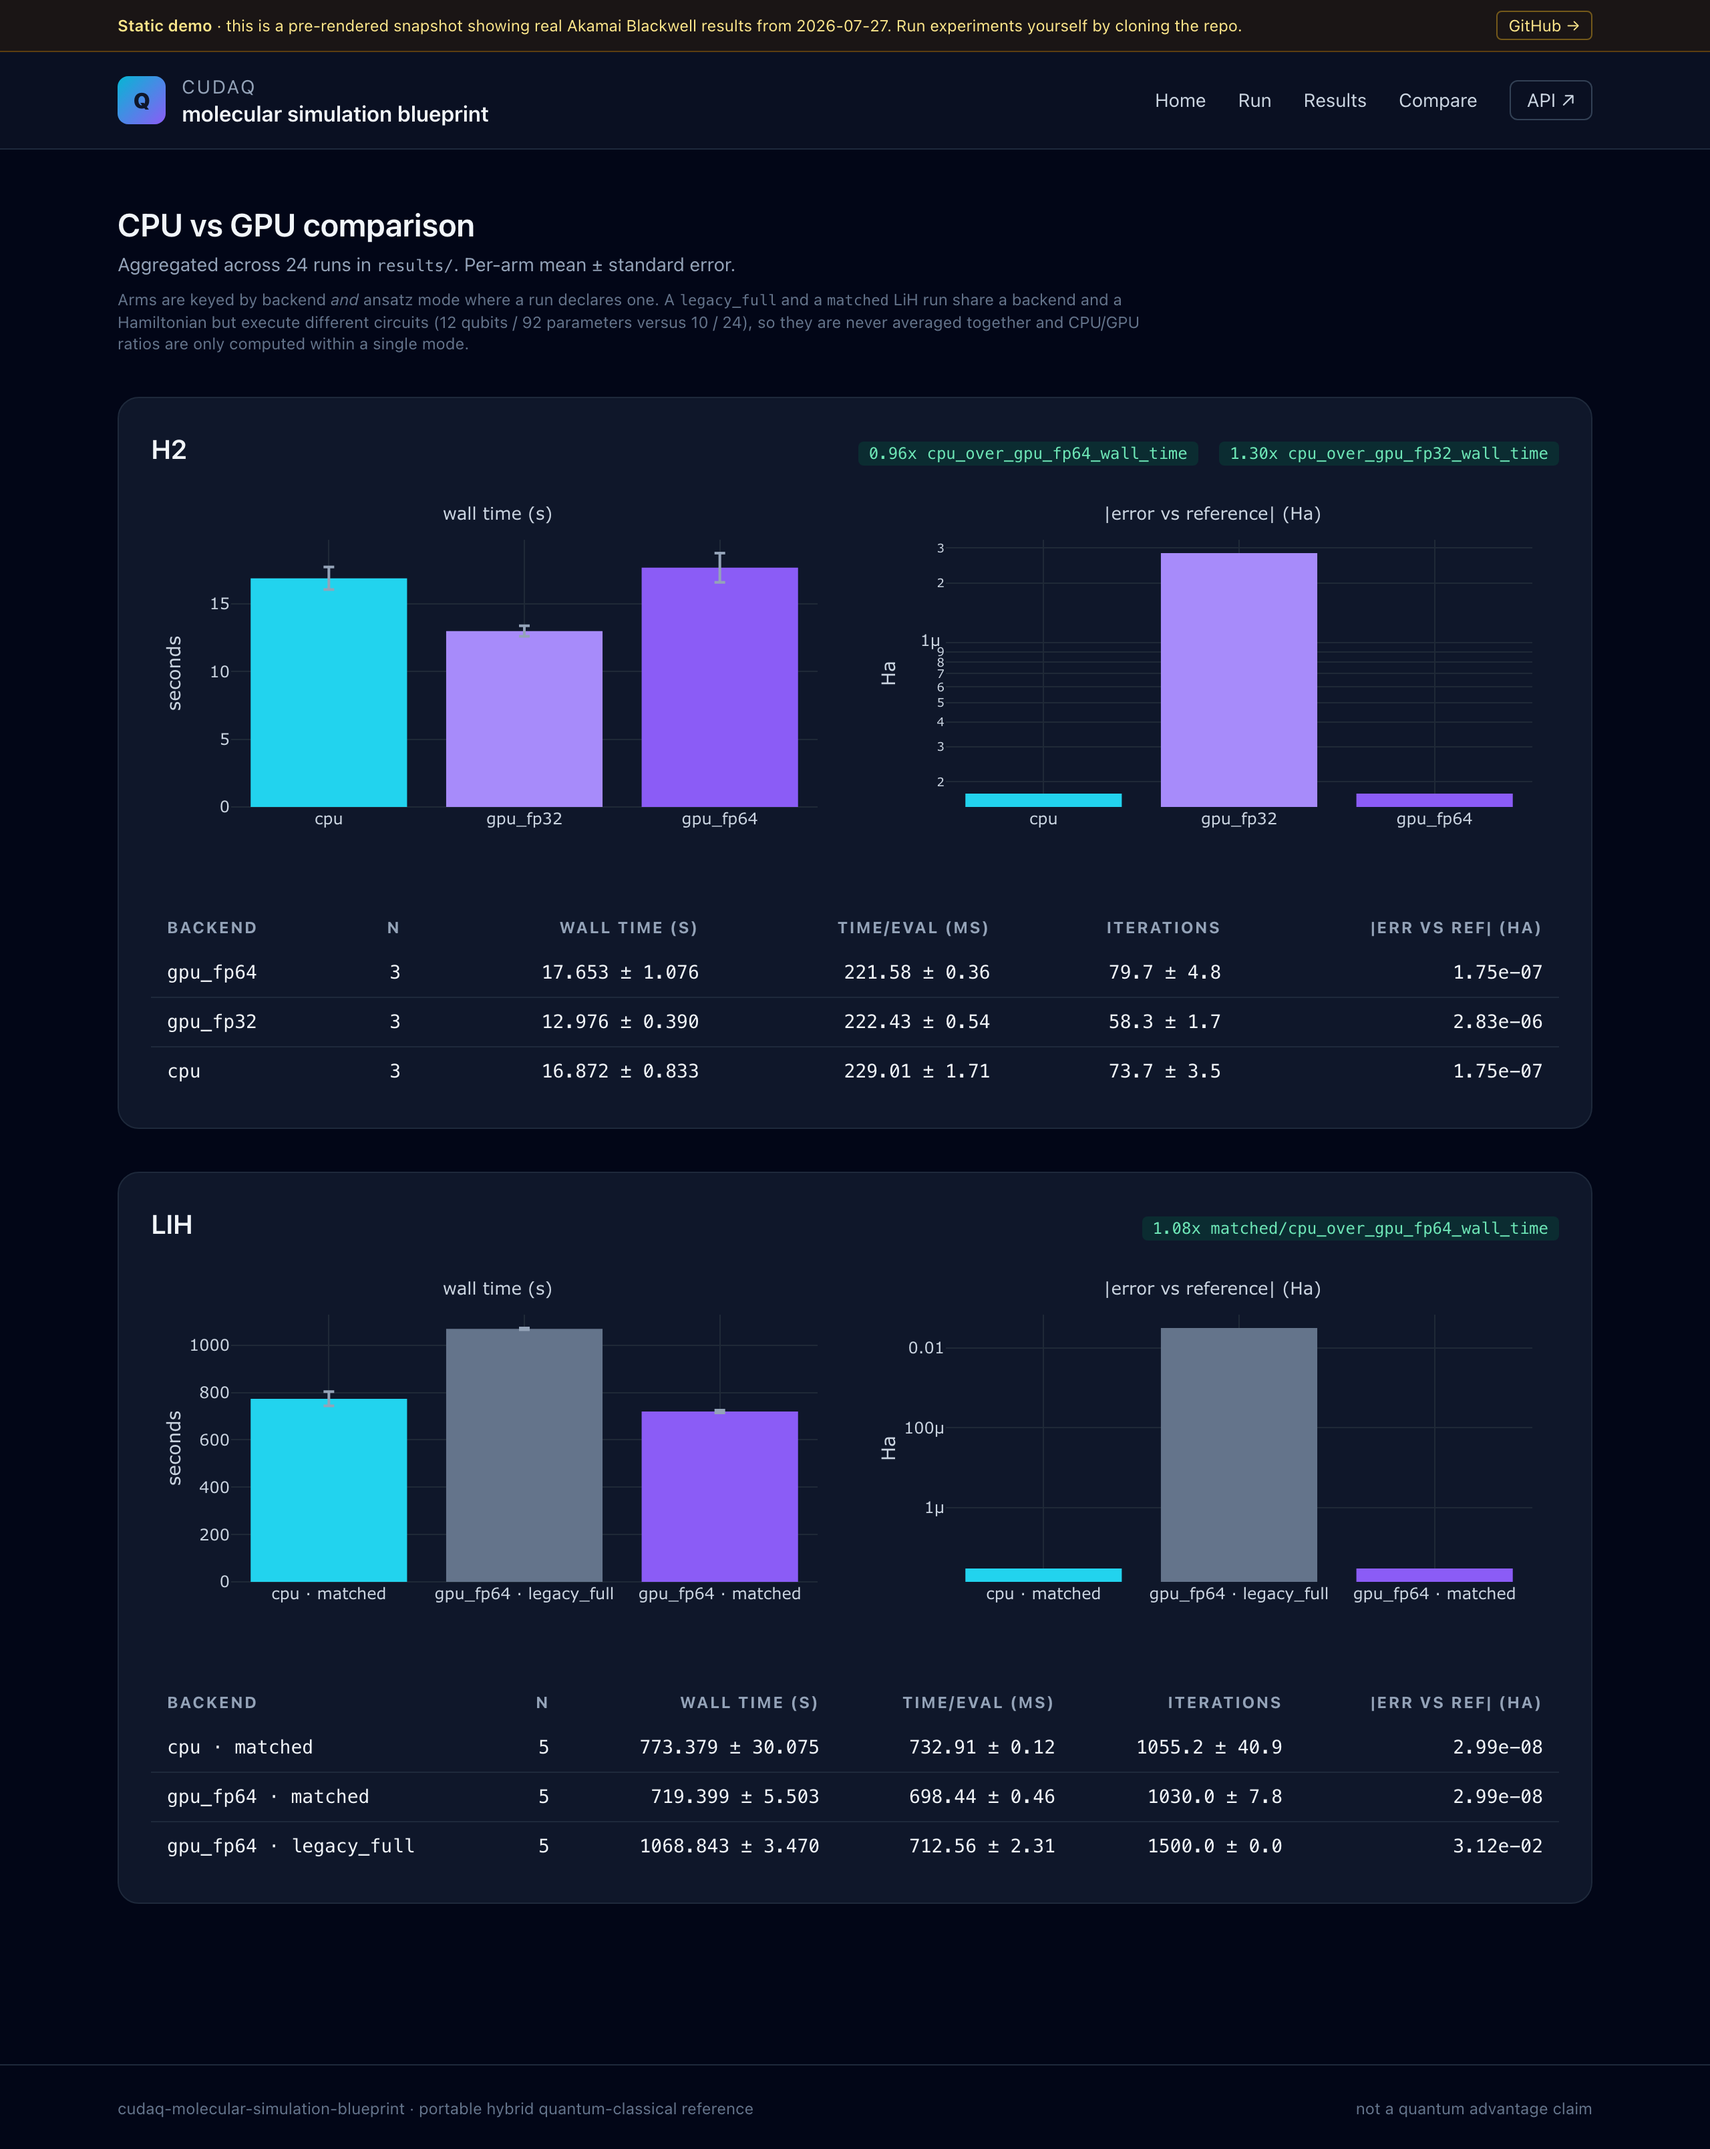
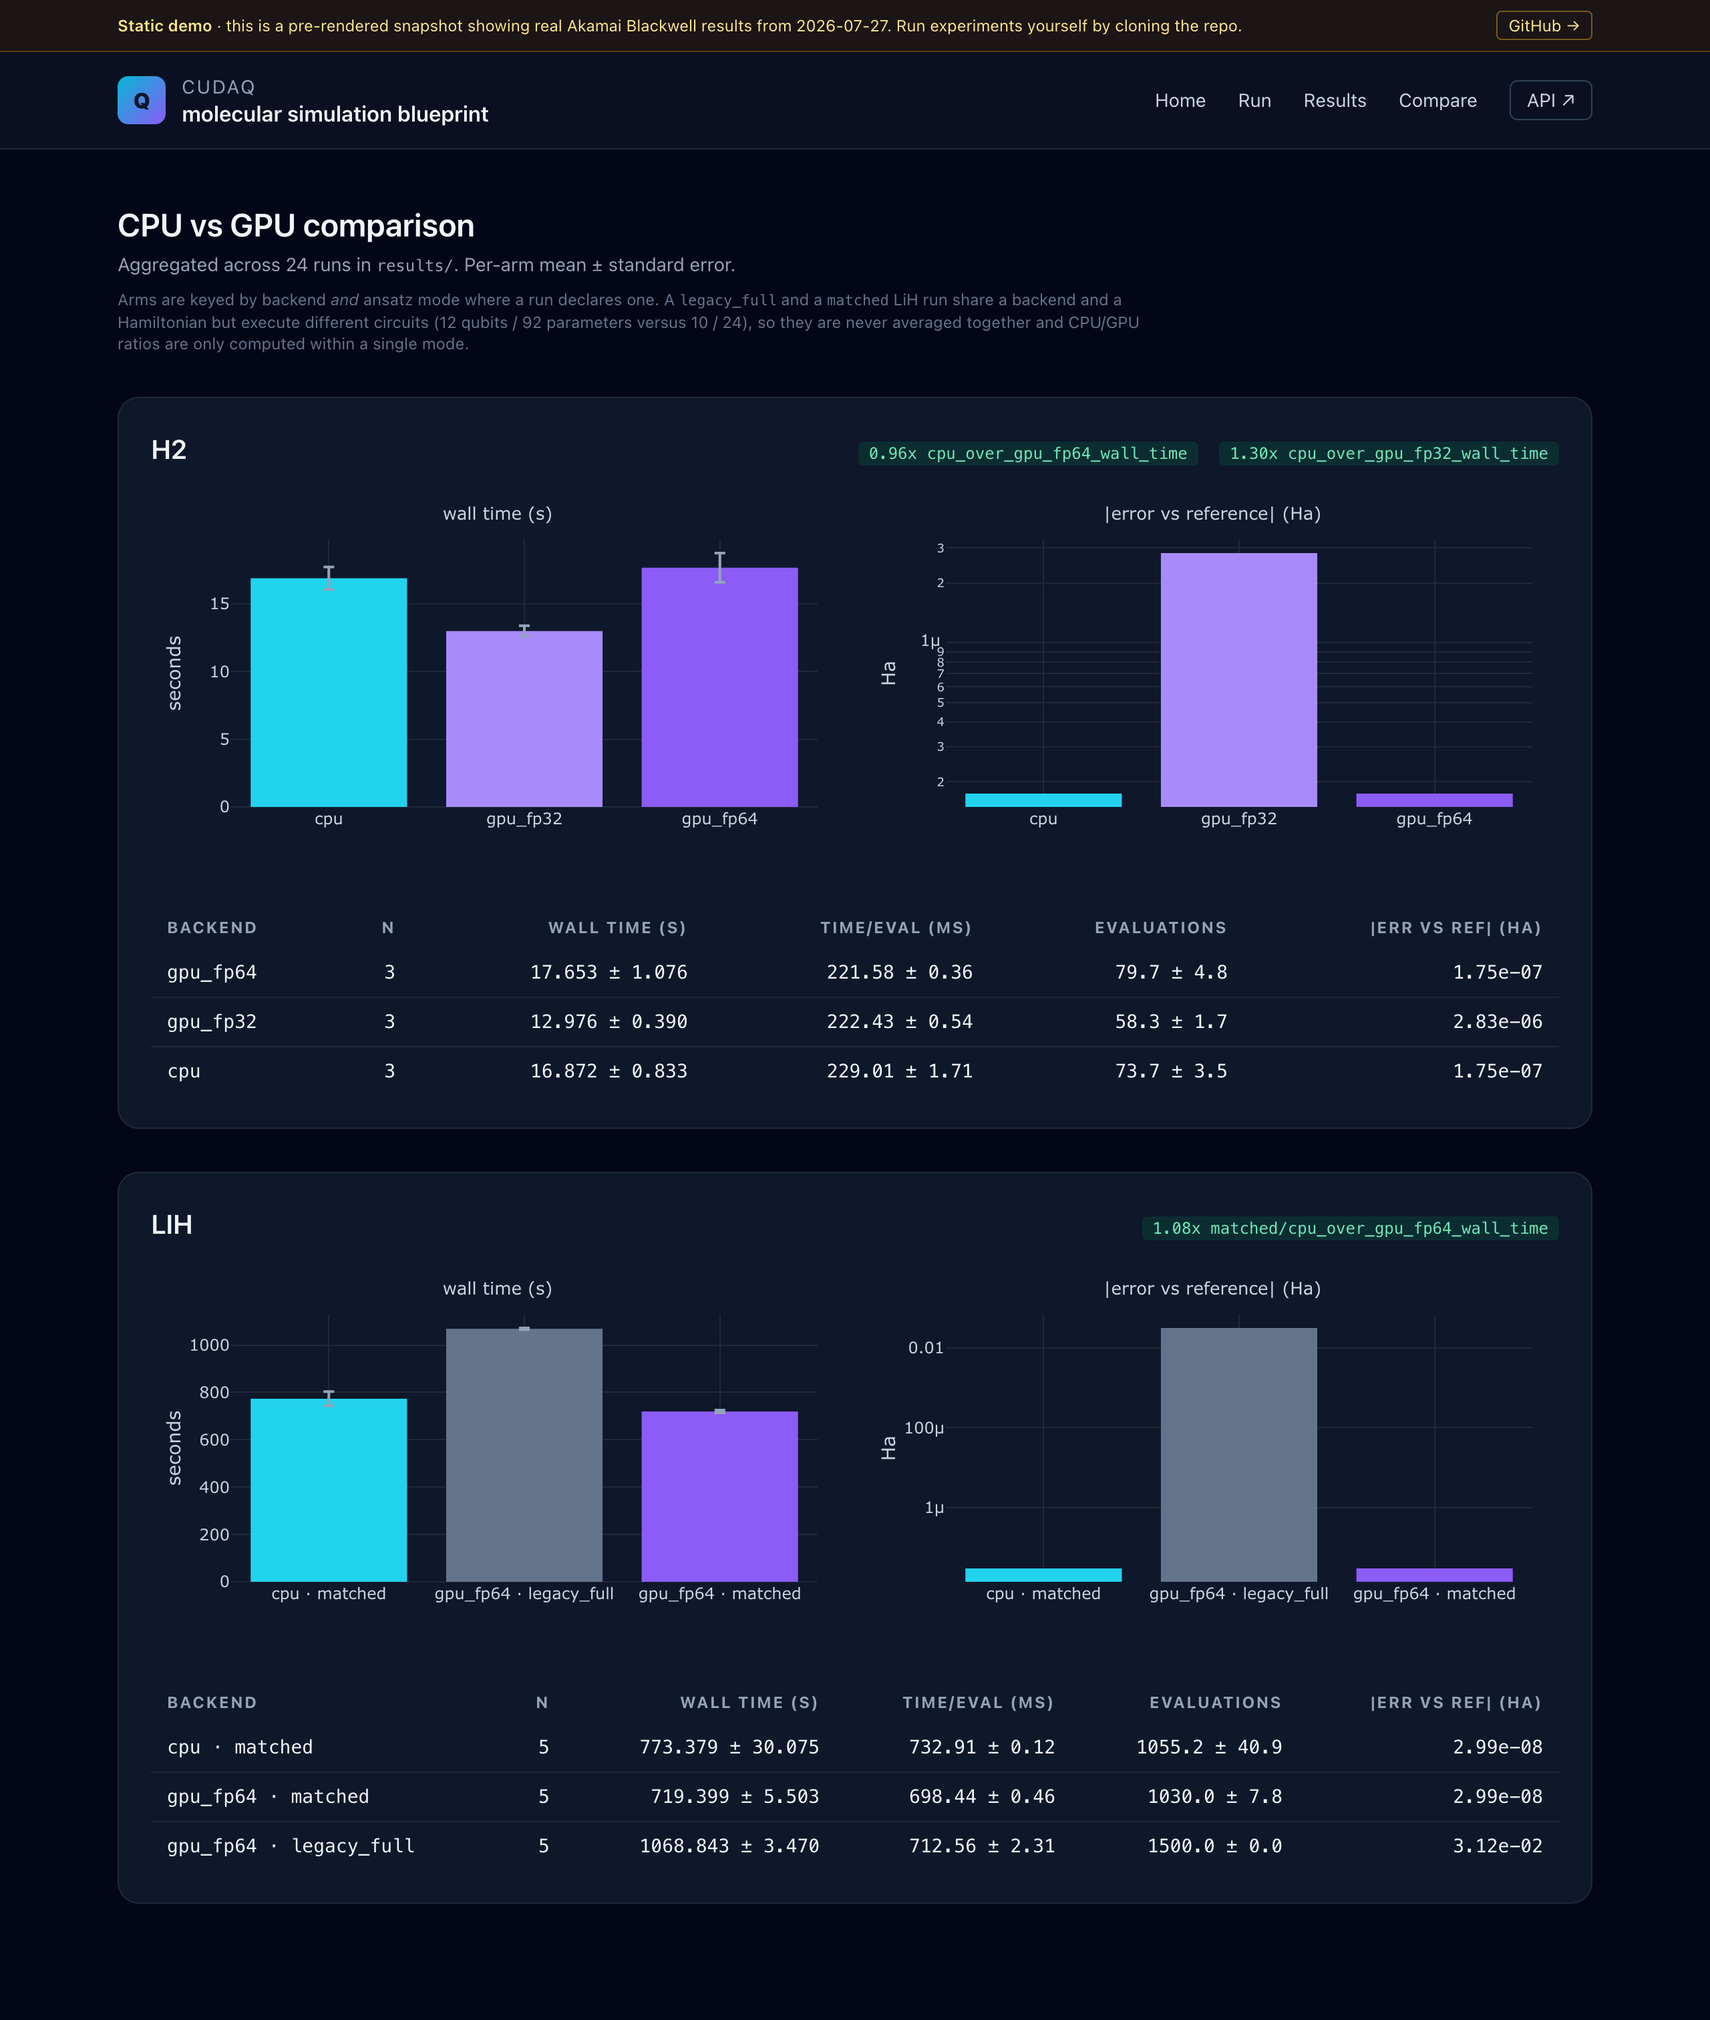
fix(ui): correct the demo home page provenance claim and hero title
Follow-on to 1e3de43, which dropped the unsupported container-digest and
git-SHA reproducibility claim from the docs but left the same sentence
standing in the demo home page, and to d4ee61c, which relabelled the web
UI to evaluations after the docs screenshots had already been taken.

- Rewrite the "Reproducible by design" card. It advertised container digest
  and git SHA, neither of which a run records: there is no digest field in
  the manifest schema at all and system_info.git_sha is null in every
  manifest. It now lists what is genuinely captured, all of it verified
  against the published manifests: CUDA-Q version, GPU model and UUID,
  driver version, OS/platform, optimizer settings, seed, and the full
  convergence trace.
- Replace the hero headline, which still carried the pre-July working title
  "Why GPUs matter to quantum before QPUs do", with a plain statement of
  what the demo does. The framing moved to an investment-discipline
  argument in d4ee61c; the headline did not follow. The charter keeps the
  former working title in its note, which is deliberate.
- Recapture all four docs screenshots from the live site at 2560px (1280
  CSS px at 2x) so they show the evaluations/evals labels from d4ee61c and
  the corrected home page copy. The previous set still read iterations/iters.
- Stop naming the publication venue in the README, docs index, and charter.
  The article title is retained; only the venue reference added in fecea2d
  is removed.
[…]

diff --git a/app/ui/templates/index.html b/app/ui/templates/index.html
@@ -5,8 +5,8 @@
   <div class="md:col-span-2 rounded-2xl border border-slate-800 bg-gradient-to-br from-slate-900 to-slate-800/50 p-8 shadow-xl">
     <p class="text-xs uppercase tracking-[0.2em] text-brand-300 font-semibold">hybrid quantum-classical reference</p>
     <h1 class="mt-3 text-3xl md:text-4xl font-bold tracking-tight">
-      Why GPUs matter to quantum
-      <span class="bg-gradient-to-r from-brand-400 to-accent-400 bg-clip-text text-transparent">before QPUs do</span>.
+      Hybrid quantum-classical simulation
+      <span class="bg-gradient-to-r from-brand-400 to-accent-400 bg-clip-text text-transparent">on CPUs and GPUs</span>.
     </h1>
     <p class="mt-4 text-slate-300 max-w-2xl">
       Run real H<sub>2</sub> and LiH VQE experiments end-to-end with NVIDIA CUDA-Q.
@@ -78,7 +78,7 @@
 <section class="mt-12 grid gap-6 md:grid-cols-3">
   {% set features = [
     ("Provider-agnostic core", "The H2/LiH VQE workflow doesn't know about Akamai. Akamai-specific deployment lives under infra/."),
-    ("Reproducible by design", "Every run captures CUDA-Q version, GPU model, driver, OS, container digest, git SHA, and seed. Re-run anywhere."),
+    ("Reproducible by design", "Every run captures CUDA-Q version, GPU model, GPU UUID, driver, OS, optimizer settings, seed, and the full convergence trace. Re-run anywhere."),
     ("Blog-ready artifacts", "Charts, summary CSVs, and JSON manifests are written to results/ for the companion blog post.")
   ] %}
   {% for title, body in features %}

diff --git a/README.md b/README.md
@@ -25,11 +25,9 @@ clone the repo to run live.
 
 This project is the reference implementation behind the article
 **"Quantum Computing: What Every CIO Should Understand Before
-Investing,"** published at
-[cloudportabletech.com](https://cloudportabletech.com). It exists to make
-the hybrid quantum workflow concrete, runnable, and reproducible &mdash;
-and to let any claim in that article be checked against the underlying
-manifests.
+Investing."** It exists to make the hybrid quantum workflow concrete,
+runnable, and reproducible &mdash; and to let any claim in that article
+be checked against the underlying manifests.
 
 It is **not** a quantum-advantage claim, **not** a positioning of Akamai as
 a dedicated quantum cloud, and **not** a cross-cloud benchmark. It **is** a

diff --git a/docs/index.md b/docs/index.md
@@ -7,9 +7,8 @@
 This site is the long-form companion to the
 [GitHub repository](https://github.com/jgdynamite/cudaq-molecular-simulation-blueprint).
 It is the reference implementation behind the article **"Quantum
-Computing: What Every CIO Should Understand Before Investing"**,
-published at [cloudportabletech.com](https://cloudportabletech.com),
-making the hybrid quantum workflow concrete, runnable, and reproducible.
+Computing: What Every CIO Should Understand Before Investing"**, making
+the hybrid quantum workflow concrete, runnable, and reproducible.
 
 ## Validated on Blackwell (Jakarta, multi-seed re-bench 2026-05-04)
 

diff --git a/docs/project-charter.md b/docs/project-charter.md
@@ -17,8 +17,6 @@ This project exists to support a technical article titled:
 
 > "Quantum Computing: What Every CIO Should Understand Before Investing."
 
-Published at cloudportabletech.com.
-
 (Working title through the May 2026 bench cycle: "Why GPUs Matter to
 Quantum Before QPUs Do." The scope below is unchanged; the framing moved
 from a GPU-performance argument to an investment-discipline argument
